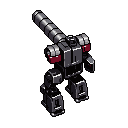
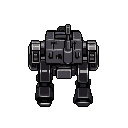
mob_cannon 이동 북면 설치 (사용자 승인 09-21) - 남면 4차
- Move 3차 북면 승인, 남면 반려(다리가 교차하지 않는다)
- 잣대는 남면을 더 높게 쟀다(2/6 대 1/6) - 부호 반전은 방향은
  맞지만 순위를 매기지 못한다. 그대로 기록한다
- 남면 4차는 보폭을 숫자로 박고(키의 4분의 1) 정강이가 겹치는
  칸을 따로 요구했다 - 3 생성

Changed region(s): [[0.2188, 0.0625, 0.7812, 0.9375]]

diff --git a/Docs/art_log/260921_art.md b/Docs/art_log/260921_art.md
@@ -39,3 +39,30 @@ the same height.
 **판정은 눈이 한다.**
 
 ⚠ **캔버스는 또 남면만 152 로 왔다.** `crop_to_canvas.py` 로 128 통일 · 화소 합 **49,456 으로 손실 0**.
+
+## 북면 승인·설치 · 남면 4차 (3 생성 · group `950e0e66`)
+
+**사용자 판정 09-21: 북 승인 · 남 반려(「다리가 교차하지 않는다」).**
+
+⚠ **잣대가 남면을 더 높게 쟀는데 눈은 반대로 갈랐다** — 부호 반전 남 **2/6** · 북 **1/6** 인데
+승인된 쪽이 북이다. **부호 반전은 「걸음인가」를 가리키는 방향은 맞지만 순위를 매기지는 못한다.**
+09-16 보병 스틸에서 좌우 대칭도가 현행·후보를 다 0.952 로 내어 못 갈랐던 것과 짝이다.
+
+| 설치 | md5 | 칸 |
+|---|---|---|
+| `Art/Anim/mob_cannon_Move/north/` | `0cc38d55` | 6 |
+
+**남면 4차에 새로 넣은 절 둘** — 3차는 발의 **높이 차**만 말했고 그것이 2/6 을 냈으나 눈에는 안 보였다.
+그래서 **크기를 숫자로 박고**, **다리가 겹치는 칸**을 따로 요구했다.
+
+```
+THE STRIDE IS LARGE AND OBVIOUS: ... the gap between the two feet is at least a quarter of
+the machine's height. They are never level.
+
+THE LEGS PASS EACH OTHER: as they trade, the lifted leg swings in front of the standing leg
+and its shin overlaps the other leg's shin for one frame, so the two legs visibly cross.
+```
+
+**「4분의 1」이 장치다** — 「같은 높이가 아니다」만으로는 **한 화소 차이도 만족**이라 눈에 안 보인다.
+쉴드의 「세어 보라: 여섯 변」과 같이 **셀 수 있는 크기**를 준다.
+**「정강이가 한 칸에서 겹친다」도 마찬가지다** — 「교차한다」는 말을 **그림에서 확인 가능한 사건**으로 옮겼다.
